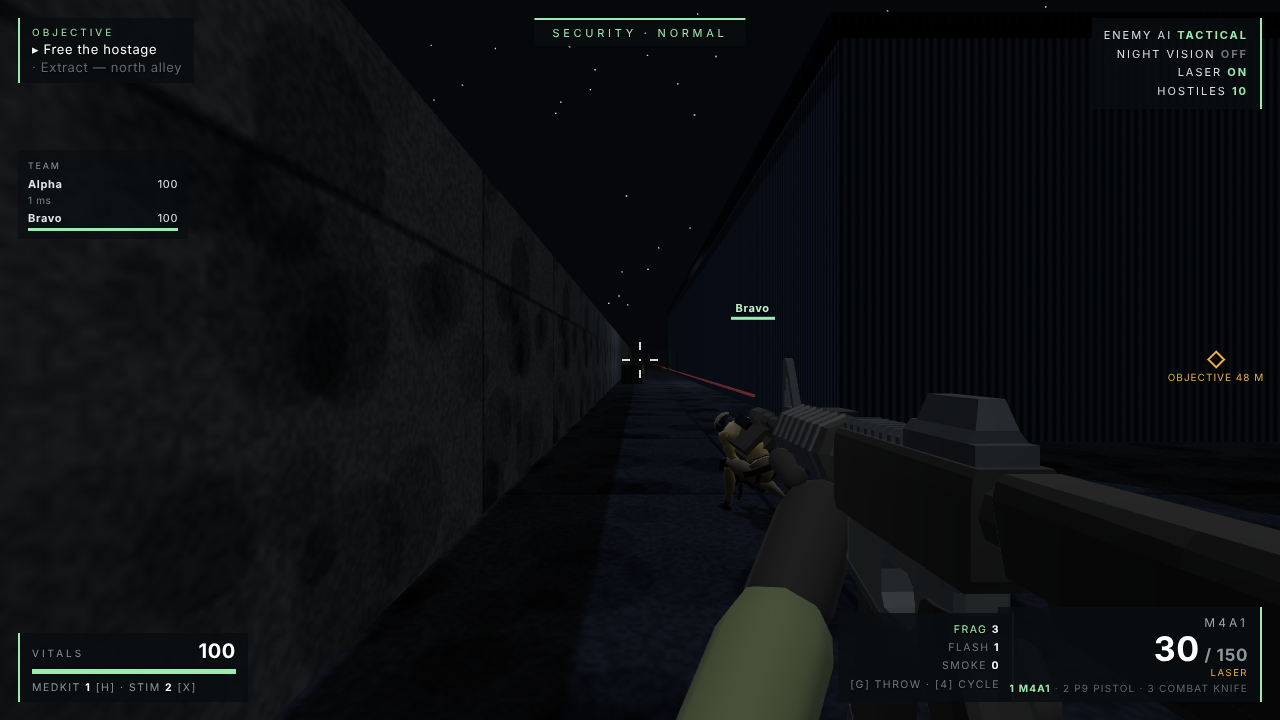
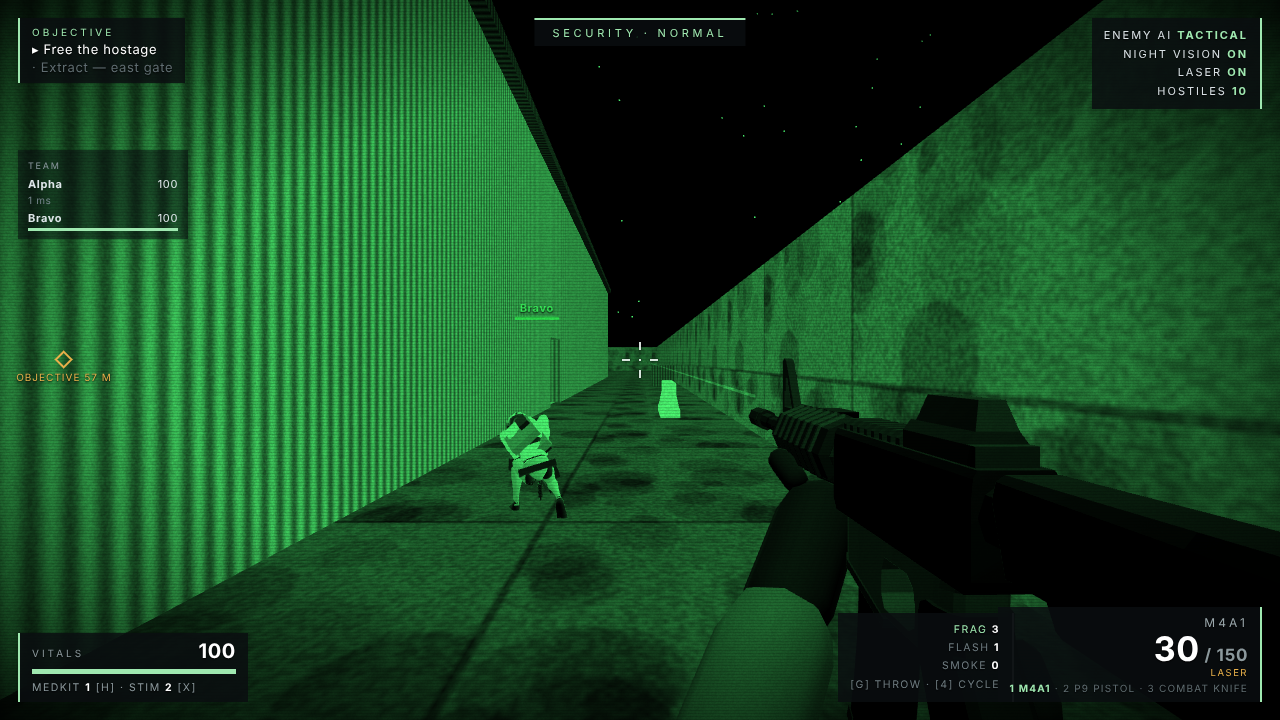
docs: co-op screenshot with night vision on
The warehouse is dark at night, so the co-op frame in the README is now
taken through night vision (turned on with the real N key), with the
teammate placed clear of the rifle. Same capture method: the real game in
headless Chromium with software WebGL.

Claude-Session: https://claude.ai/code/session_013FrZnVBVjkGGzMAoYpnV25

diff --git a/README.md b/README.md
@@ -7,9 +7,9 @@ Play generated missions solo, or in LAN co-op with 2–4 players total on your l
 ![Forest Outpost at night: a guard on patrol by the compound fence, objective marker and HUD (real in-game frame)](docs/media/gameplay-solo.png)
 
 *Real frames from the running game, captured in headless Chromium with software WebGL. Above: solo, Forest Outpost.
-Below: LAN co-op seen from the host, with teammate "Bravo" name-tagged and the TEAM panel.*
+Below: LAN co-op seen from the host with night vision on, teammate "Bravo" name-tagged, and the TEAM panel.*
 
-![Co-op in the Industrial Warehouse: a crouched teammate with a name tag, team health panel at the top left](docs/media/gameplay-coop.png)
+![Co-op in the Industrial Warehouse through night vision: a crouched teammate with a name tag, team health panel at the top left](docs/media/gameplay-coop.png)
 
 ## Play solo
 
